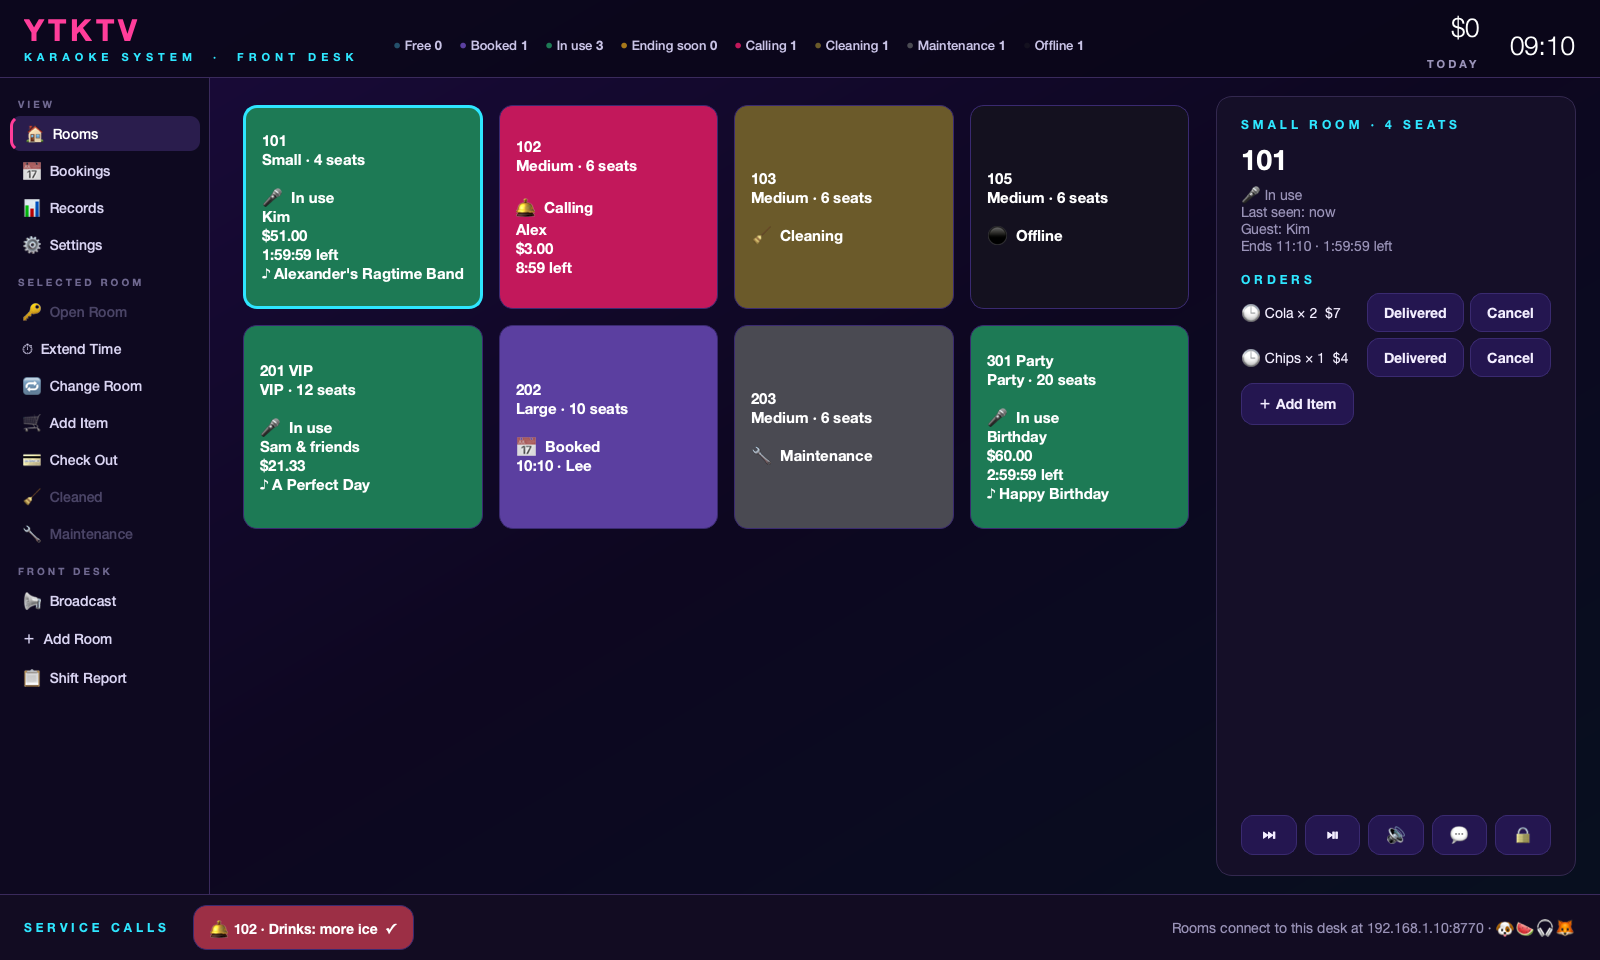
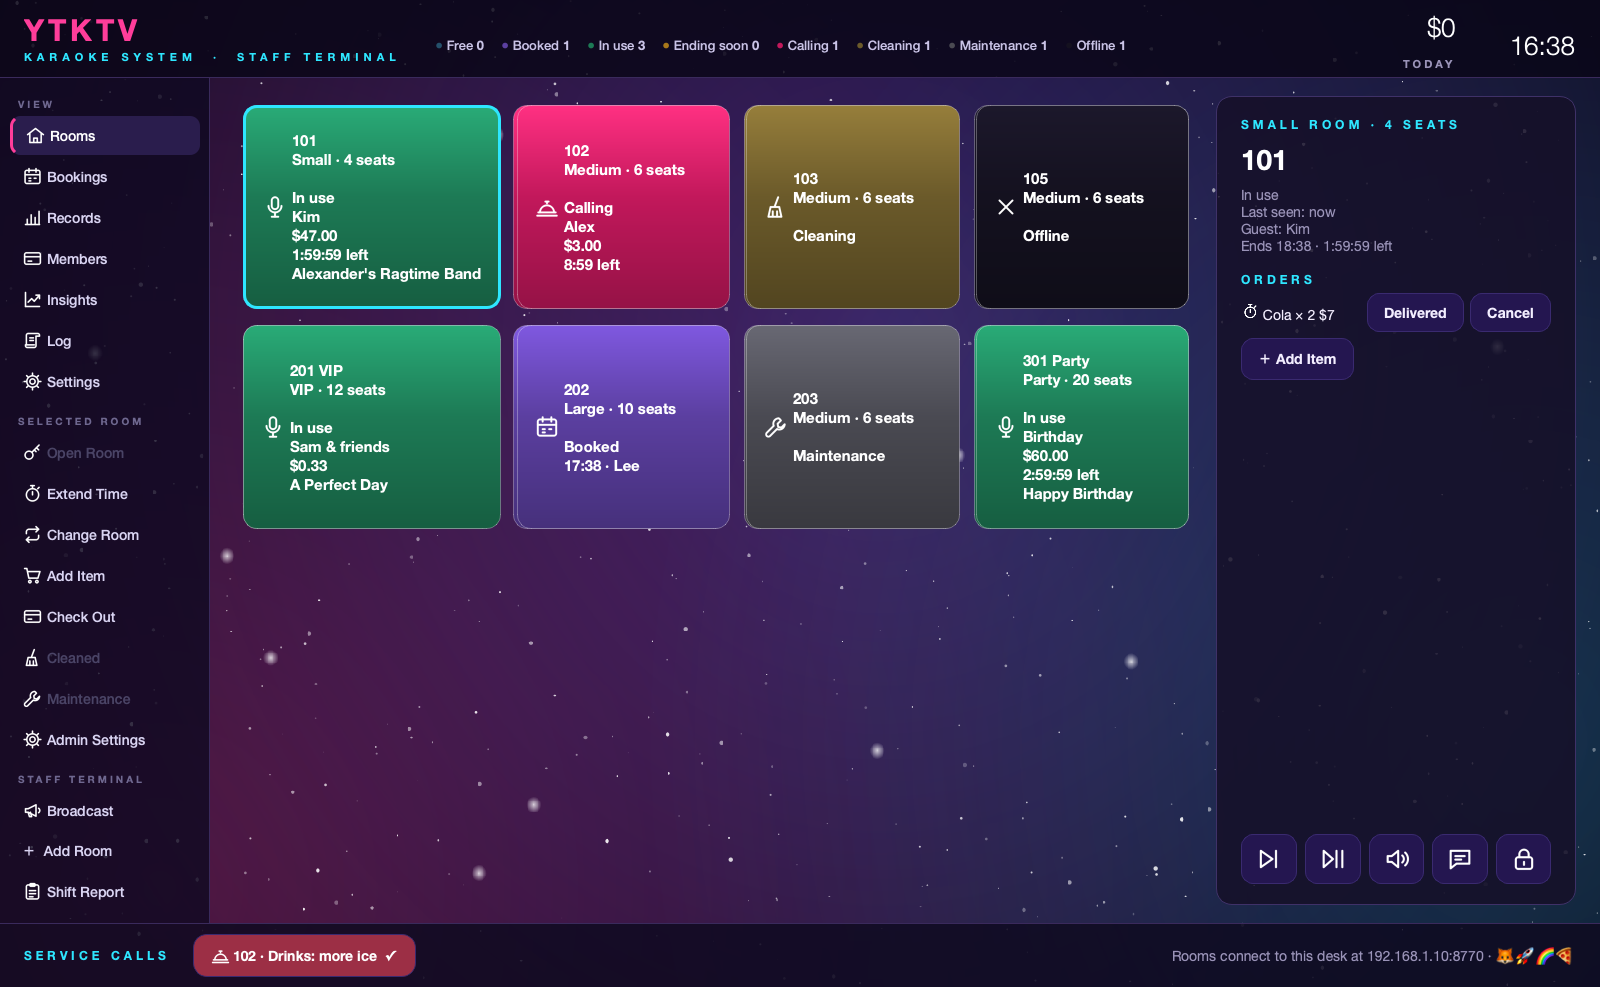
Desk: night sky and glossy room tiles
YTKTV Desk gets the console's night sky behind translucent panels, and room tiles become glossy (lighter at the top). The Maintenance button no longer shows a system emoji next to its icon. The Desk screenshot is redrawn.

diff --git a/src/ytktv/desk/window.py b/src/ytktv/desk/window.py
@@ -8,7 +8,7 @@ from pathlib import Path
 from typing import Any
 
 from PySide6.QtCore import QSize, Qt, QTimer, QUrl
-from PySide6.QtGui import QCloseEvent, QDesktopServices, QIcon
+from PySide6.QtGui import QCloseEvent, QColor, QDesktopServices, QIcon
 from PySide6.QtWidgets import (
     QApplication,
     QFrame,
@@ -58,7 +58,7 @@ from ytktv.desk.store import CODE_SECONDS, Booking, DeskStore, Room
 from ytktv.desk.terminals import TerminalSettings
 from ytktv.desk.update import DeskUpdater
 from ytktv.rooms.state import format_left
-from ytktv.ui import icons
+from ytktv.ui import backdrop, icons
 
 COLUMNS = 4
 ICON = Path(__file__).parent / "assets" / "icon.png"
@@ -73,18 +73,19 @@ STYLE = """
 #navButton { background: transparent; color: #c9c3e6; border: 0; border-radius: 0;
   padding: 10px 18px; font-size: 15px; font-weight: 600; }
 #navButton:checked { color: white; border-bottom: 3px solid #ff3d9a; }
-#stat { background: #1a1430; border: 1px solid #33284f; border-radius: 14px; }
+#stat { background: rgba(26, 20, 48, 0.85); border: 1px solid #3f3168; border-radius: 14px; }
 #statValue { color: white; font-size: 34px; font-weight: 800; }
 #statLabel { color: #9a93b8; font-size: 11px; font-weight: 700; letter-spacing: 3px; }
-#panel { background: #150f28; border: 1px solid #33284f; border-radius: 16px; }
+#panel { background: rgba(21, 15, 40, 0.86); border: 1px solid #3f3168; border-radius: 16px; }
 #panelHead { color: #2ee6ff; font-size: 12px; font-weight: 800; letter-spacing: 4px; }
 #bigName { color: white; font-size: 28px; font-weight: 800; }
 #muted { color: #9a93b8; }
 #codeDigits { color: #ff3d9a; font-size: 56px; font-weight: 900; letter-spacing: 12px; }
-#callBar { background: #120c22; border-top: 1px solid #3a2a5c; }
-#roomTile { border-radius: 14px; text-align: left; }
+#callBar { background: rgba(14, 9, 32, 0.85); border-top: 1px solid #3a2a5c; }
+QScrollArea, QScrollArea > QWidget > QWidget { background: transparent; }
+#roomTile { border-radius: 14px; text-align: left; border: 1px solid rgba(255, 255, 255, 0.3); }
 #roomTile[selected="true"] { border: 3px solid #2ee6ff; }
-#sideBar { background: #0e0920; border-right: 1px solid #3a2a5c; }
+#sideBar { background: rgba(14, 9, 32, 0.8); border-right: 1px solid #3a2a5c; }
 #sideHead { color: #6f6890; font-size: 10px; font-weight: 800; letter-spacing: 3px;
   padding: 12px 6px 4px 6px; }
 #sideButton { background: transparent; color: #d9d4f2; border: 0; border-radius: 10px;
@@ -162,7 +163,7 @@ class DeskWindow(QMainWindow):
         self.setStyleSheet(STYLE)
         self.resize(1280, 820)
         self.setMinimumWidth(1100)
-        root = QWidget()
+        root = backdrop.Backdrop()  # the same night sky as the rooms' consoles
         page = QVBoxLayout(root)
         page.setContentsMargins(0, 0, 0, 0)
         page.setSpacing(0)
@@ -702,9 +703,12 @@ class DeskWindow(QMainWindow):
             tile.setText(text.replace("&", "&&"))  # a lone & would become a shortcut
             tile.setIcon(icons.icon(dot))
             tile.setIconSize(QSize(26, 26))
+            # A glossy tile: lighter at the top, darker at the bottom, like the console's.
+            top, bottom = QColor(colour).lighter(140).name(), QColor(colour).darker(130).name()
             tile.setStyleSheet(
-                f"#roomTile {{ background: {colour}; color: white; font-size: 15px;"
-                " font-weight: 700; text-align: left; padding: 12px 16px; }"
+                "#roomTile { background: qlineargradient(x1:0, y1:0, x2:0, y2:1,"
+                f" stop:0 {top}, stop:0.45 {colour}, stop:1 {bottom}); color: white;"
+                " font-size: 15px; font-weight: 700; text-align: left; padding: 12px 16px; }"
             )
             tile.clicked.connect(lambda _c=False, r=room.room_id: self.select(r))
             self.grid.addWidget(tile, n // COLUMNS, n % COLUMNS)
@@ -766,8 +770,9 @@ class DeskWindow(QMainWindow):
         }
         for key, action in self.room_actions.items():
             action.setEnabled(enabled[key])
-        self.room_actions["repair"].setText(
-            "✅  Back in Service" if room.state == "maintenance" else "🔧  Maintenance"
+        icons.set_text(
+            self.room_actions["repair"],
+            "✅  Back in Service" if room.state == "maintenance" else "🔧  Maintenance",
         )
         self.orders.show_room(room.room_id if room.is_open else None)
         for button in self.remote_buttons:
